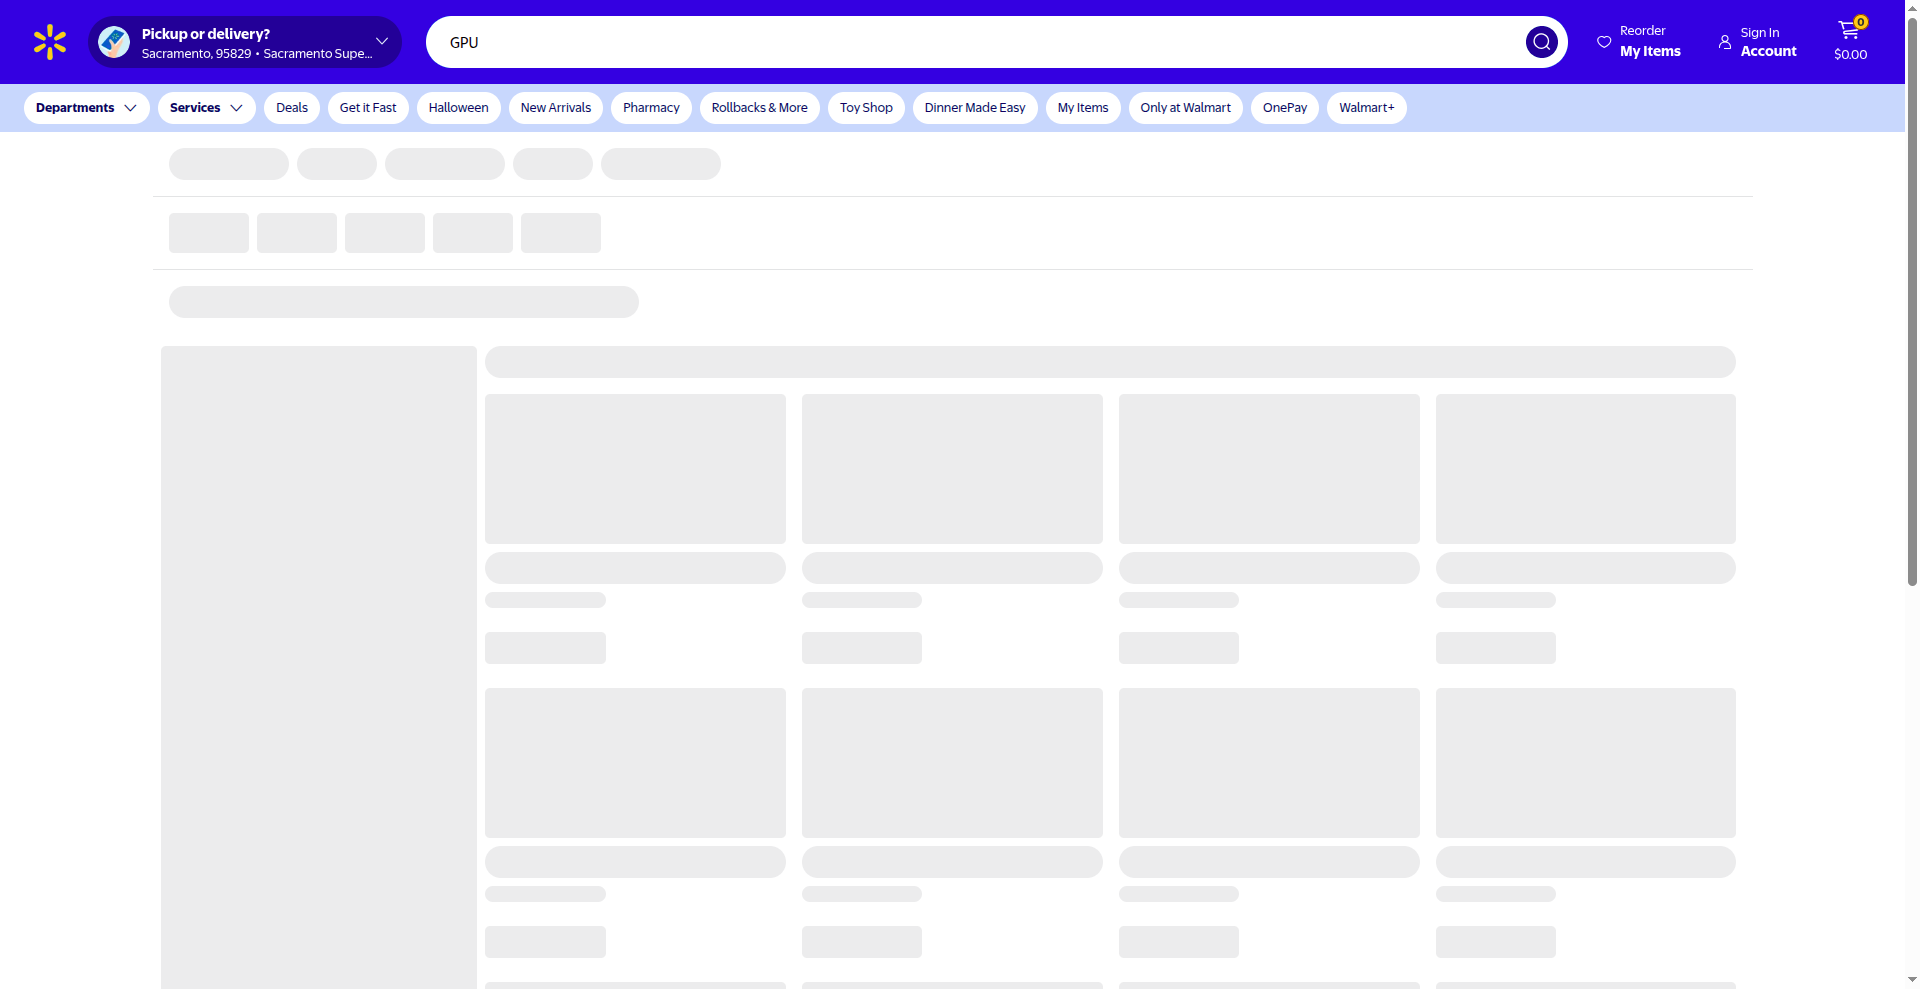
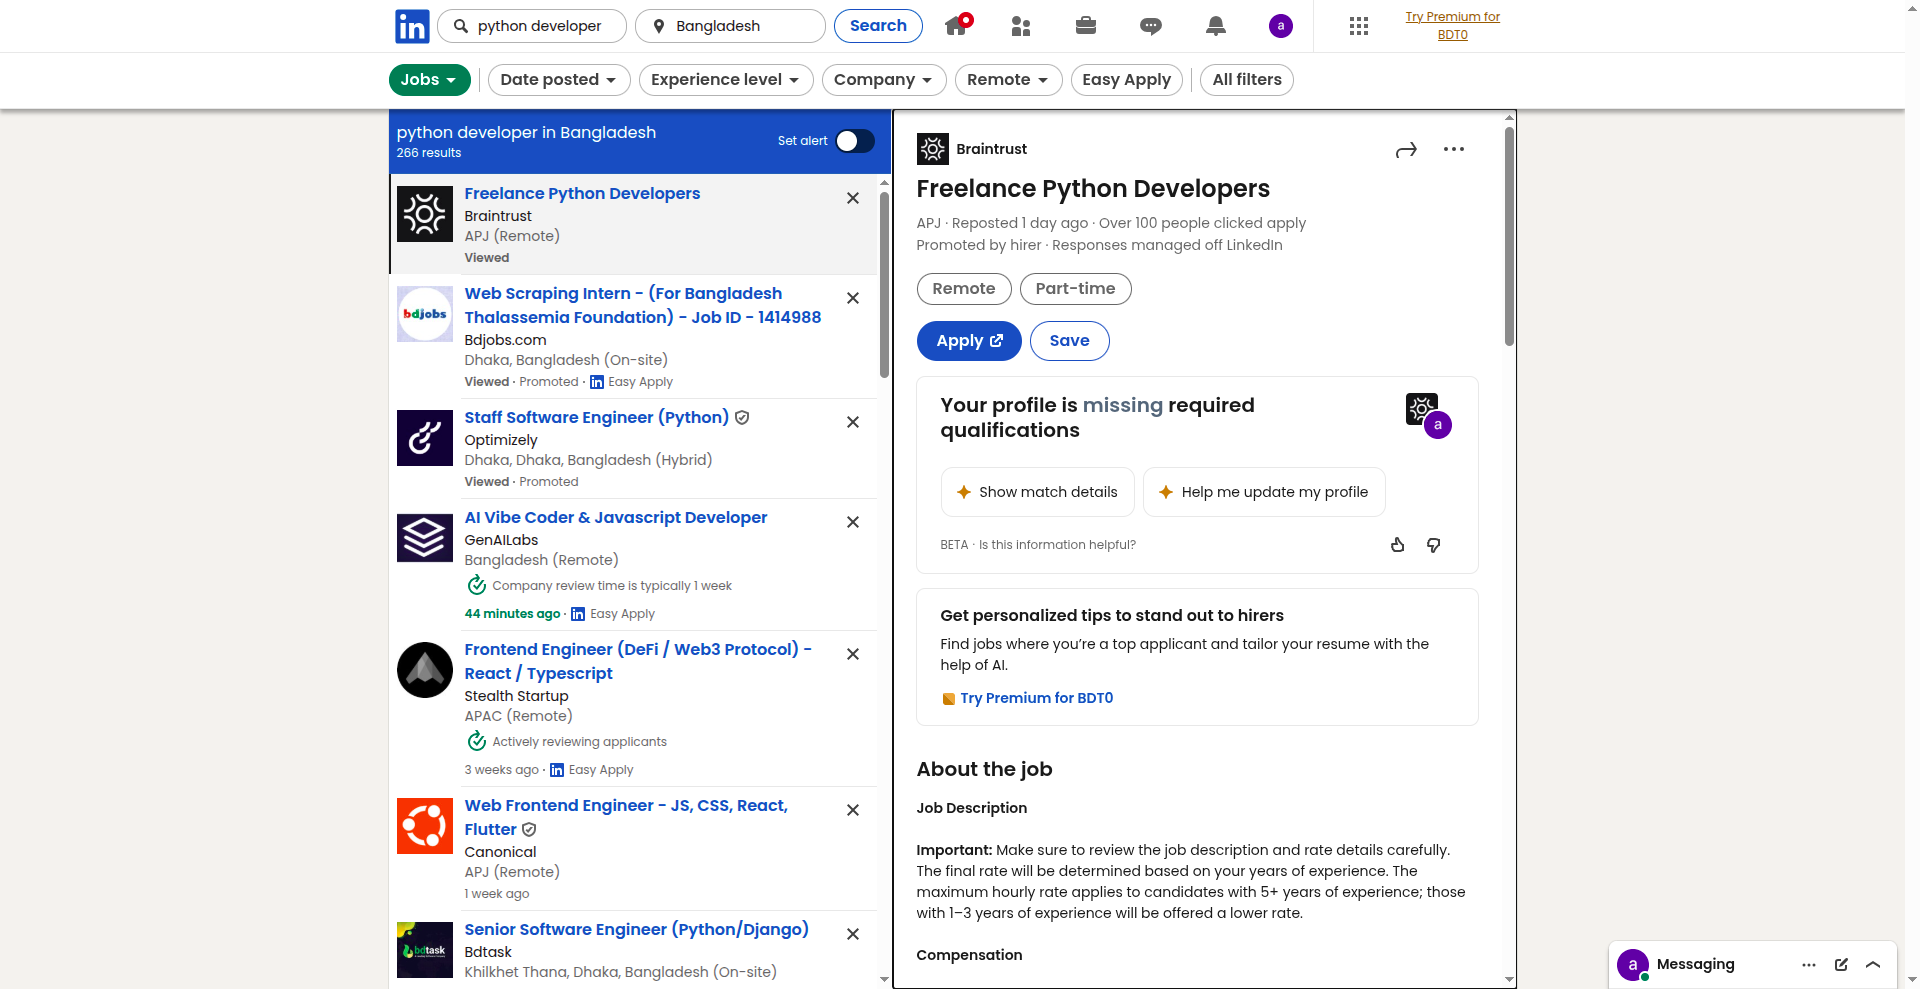
build playwrigh automation 99.99% web site can scrape without proxy

diff --git a/15-Browser-Automations-Through-AI-Agent/Playwrigh/basics.py b/15-Browser-Automations-Through-AI-Agent/Playwrigh/basics.py
@@ -14,10 +14,11 @@ with sync_playwright() as p:
 
     # Visit your target URL
     # page.goto("https://www.google.com/search?q=mdalamin5+github")
-    page.goto("https://www.linkedin.com/in/mdalamin5/")
+    # page.goto("https://www.linkedin.com/in/mdalamin5/")
     # page.goto("https://www.linkedin.com/in/abdullahmatin6920/")
     # page.goto("https://www.linkedin.com/in/rubayet-faisal-75806157/")
     # page.goto("https://www.linkedin.com/in/faiaz-hossain-nirob/")
+    # page.goto("https://www.linkedin.com/jobs/search/?currentJobId=4301995844&geoId=106215326&keywords=python%20developer&origin=JOB_SEARCH_PAGE_KEYWORD_AUTOCOMPLETE&refresh=true")
     time.sleep(5)
     
 